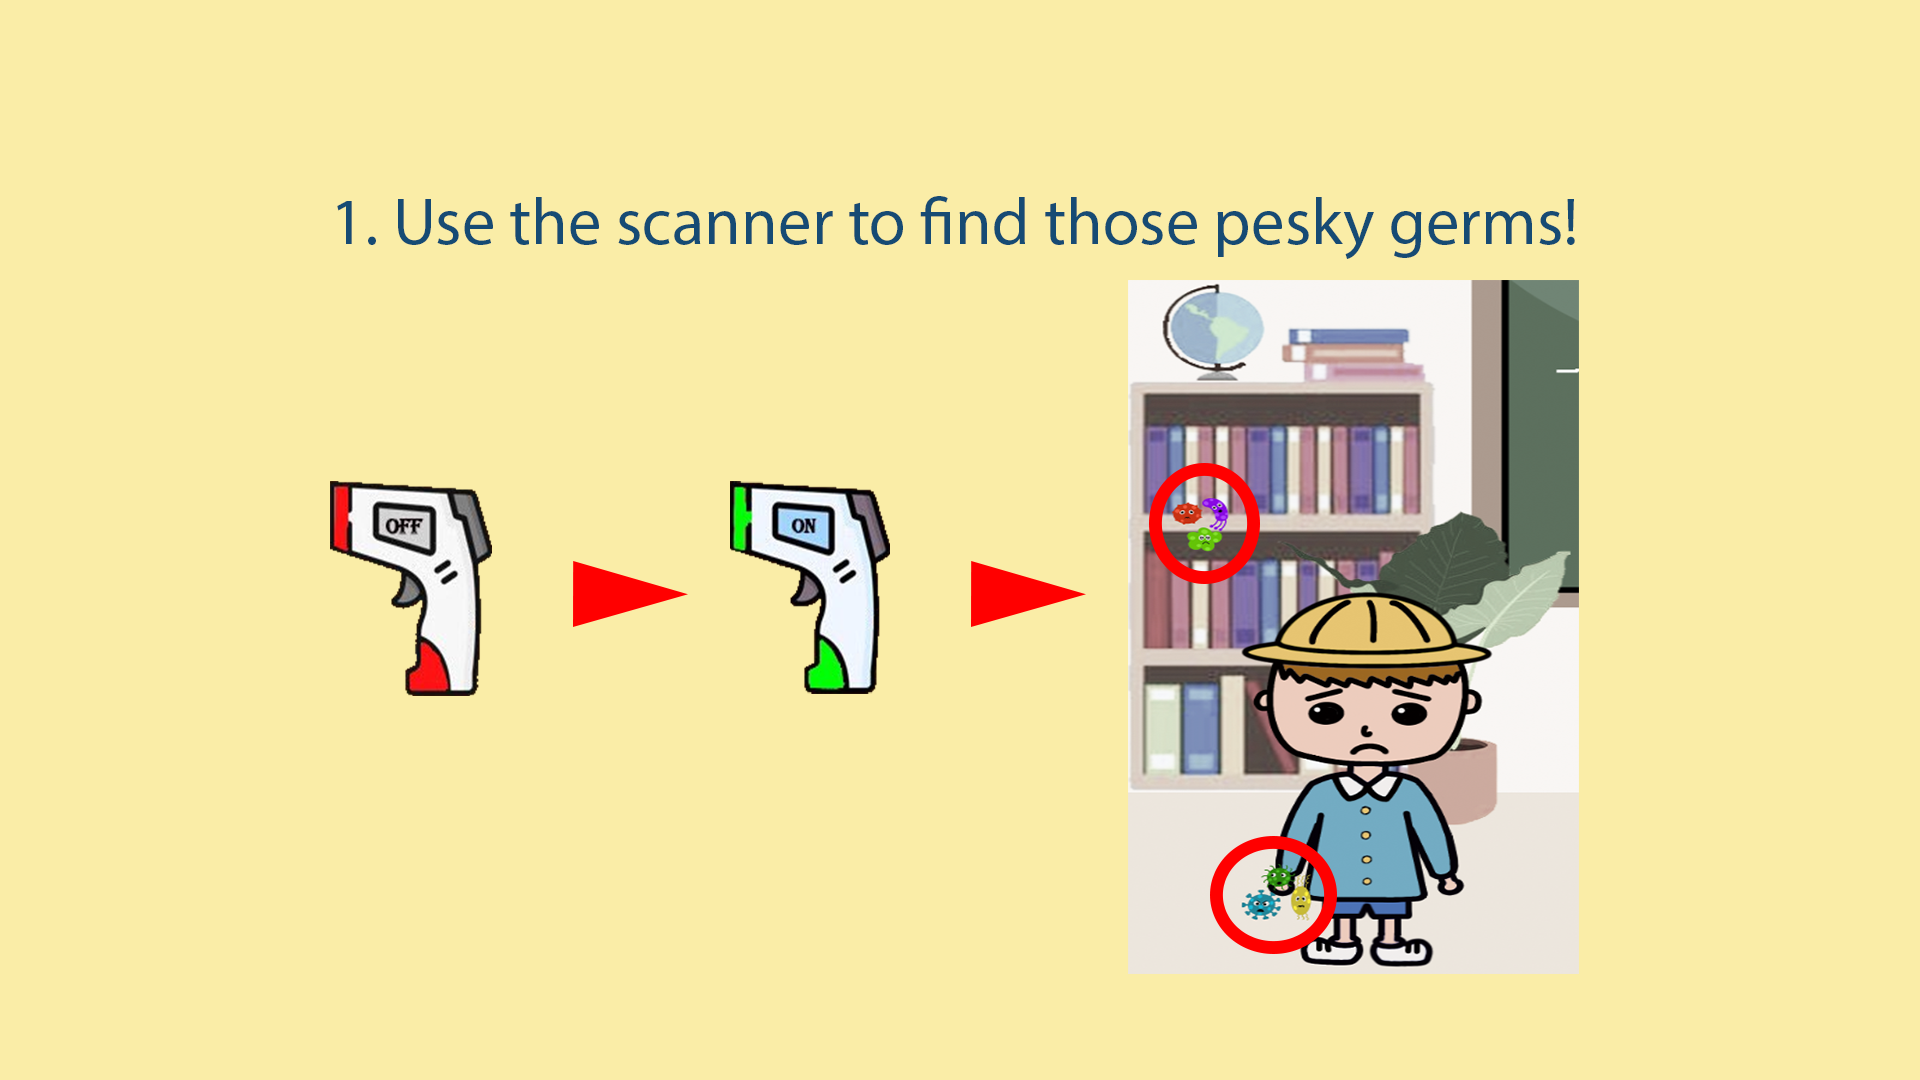
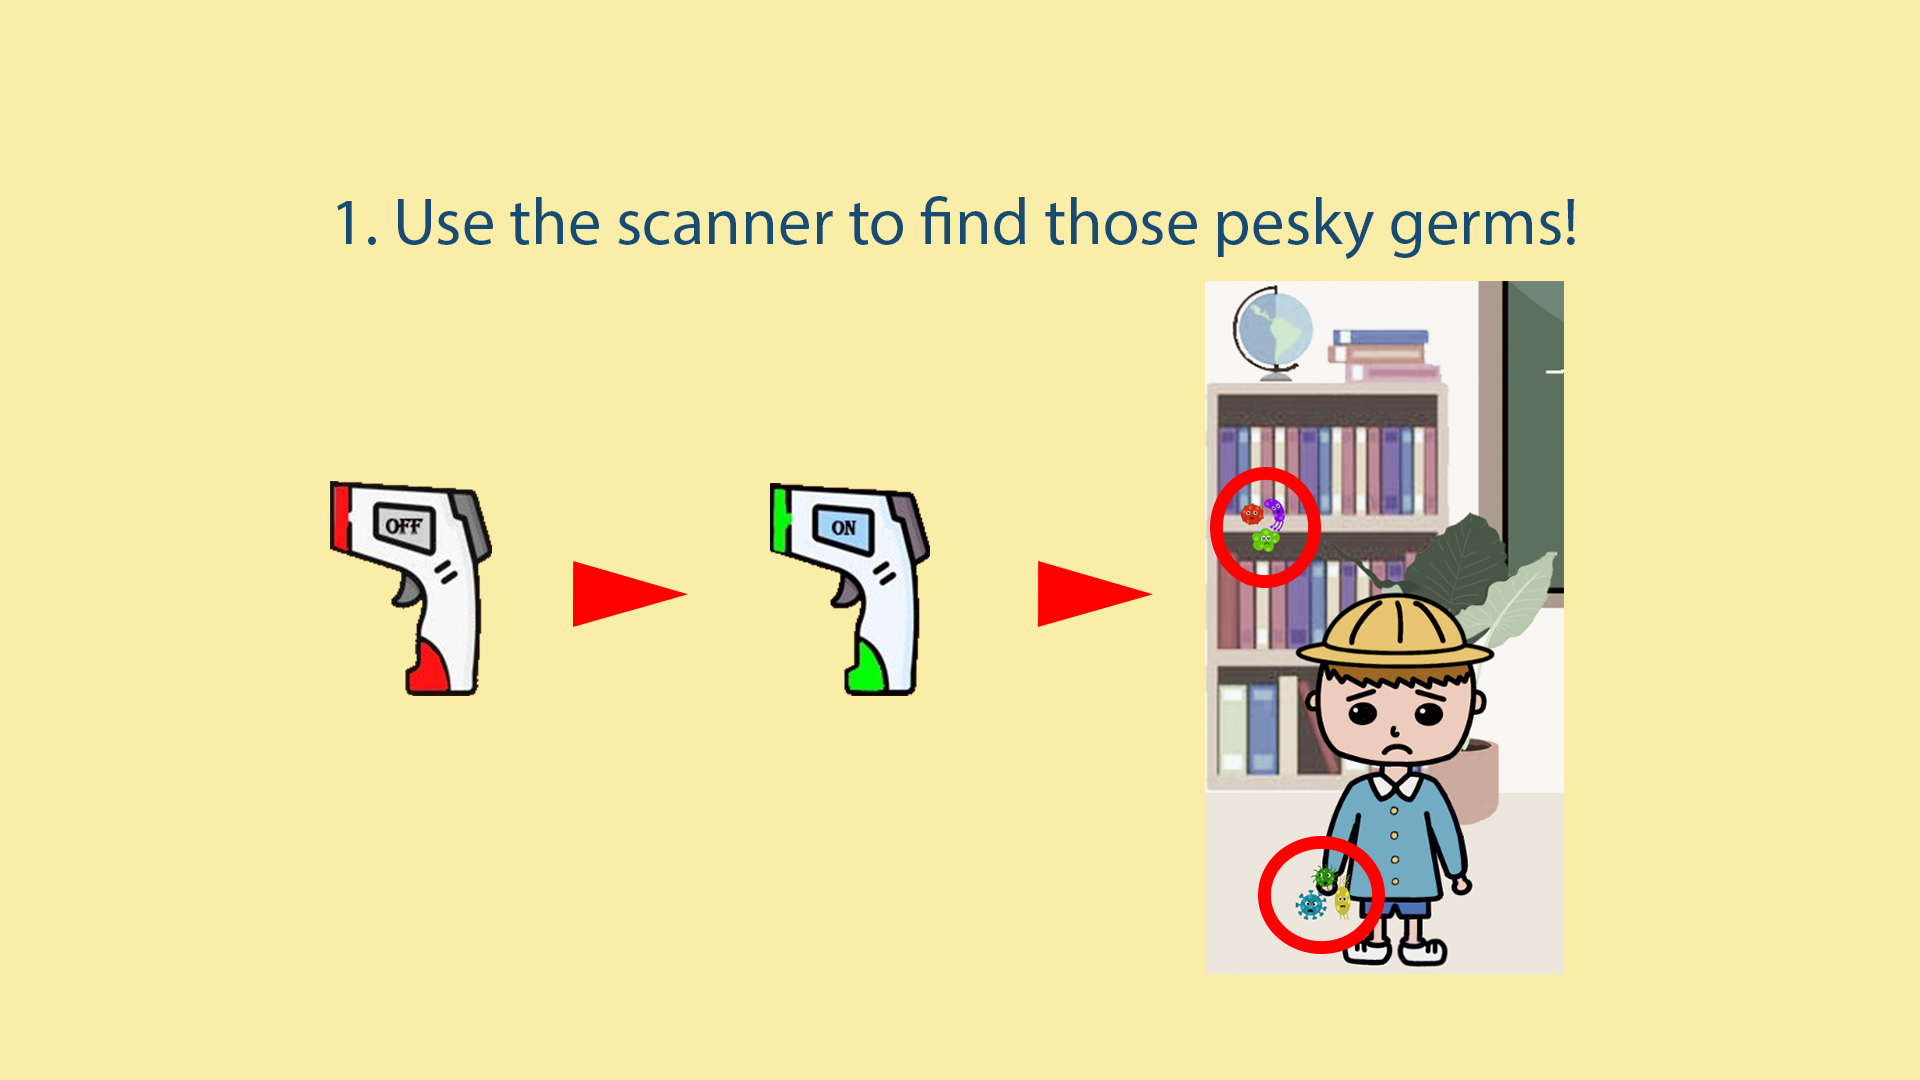
Update instruction2.png, make germs bigger, make germ positions more aligned with hands.

Changed region(s): [[0.375, 0.2444, 0.8438, 0.9167]]

diff --git a/src/db.js b/src/db.js
@@ -65,18 +65,18 @@ const db = {
   germLocations9IsActive: false,
   // student 1 germs
   // LH
-  germLocations10Left: 60,
-  germLocations10Top: 395,
+  germLocations10Left: 55,
+  germLocations10Top: 385,
   germLocations10IsAlive: false,
   germLocations10IsActive: false,
   // RH
-  germLocations11Left: 130,
-  germLocations11Top: 395,
+  germLocations11Left: 125,
+  germLocations11Top: 385,
   germLocations11IsAlive: false,
   germLocations11IsActive: false,
   // student 2 germs
   // LH
-  germLocations12Left: 355,
+  germLocations12Left: 350,
   germLocations12Top: 340,
   germLocations12IsAlive: false,
   germLocations12IsActive: false,
@@ -88,12 +88,12 @@ const db = {
   // student 3 germs
   // LH
   germLocations14Left: 725,
-  germLocations14Top: 390,
+  germLocations14Top: 385,
   germLocations14IsAlive: false,
   germLocations14IsActive: false,
   // RH
   germLocations15Left: 795,
-  germLocations15Top: 390,
+  germLocations15Top: 385,
   germLocations15IsAlive: false,
   germLocations15IsActive: false,
 };

diff --git a/src/components/LevelOne/LevelOne.scss b/src/components/LevelOne/LevelOne.scss
@@ -180,16 +180,16 @@
 
         .germ {
             position: absolute;
-            width: 30px;
-            height: 30px;
+            width: 45px;
+            height: 45px;
             background: rgba(0,0,0,0);
             z-index: 1;
         }
 
         .null-germ {
             @extend .germ;
-            width: 45px;
-            height: 45px;
+            width: 50px;
+            height: 50px;
         }
 
         .student {
